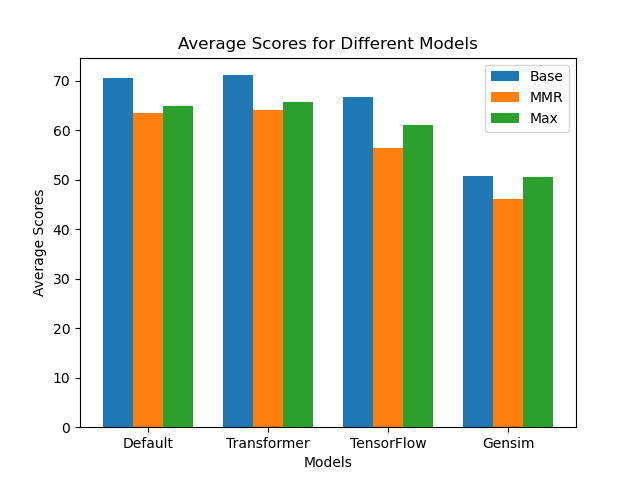
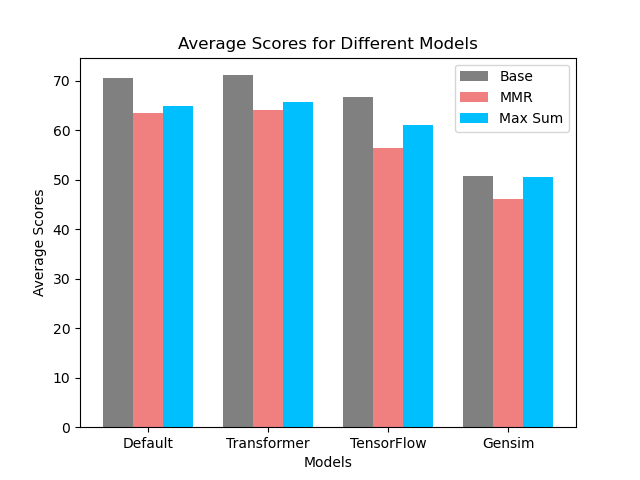
changed graph color of model scores

diff --git a/KeyBert/graph.py b/KeyBert/graph.py
@@ -48,9 +48,9 @@ bar_width = 0.25
 bar_positions = np.arange(len(suffixes))
 
 # Create bar plots
-plt.bar(bar_positions - bar_width, base_avgs, width=bar_width, label='Base')
-plt.bar(bar_positions, mmr_avgs, width=bar_width, label='MMR')
-plt.bar(bar_positions + bar_width, max_avgs, width=bar_width, label='Max')
+plt.bar(bar_positions - bar_width, base_avgs, width=bar_width, label='Base', color='grey')
+plt.bar(bar_positions, mmr_avgs, width=bar_width, label='MMR', color='lightcoral')
+plt.bar(bar_positions + bar_width, max_avgs, width=bar_width, label='Max Sum', color='deepskyblue')
 
 # Customize the plot
 plt.xlabel('Models')
